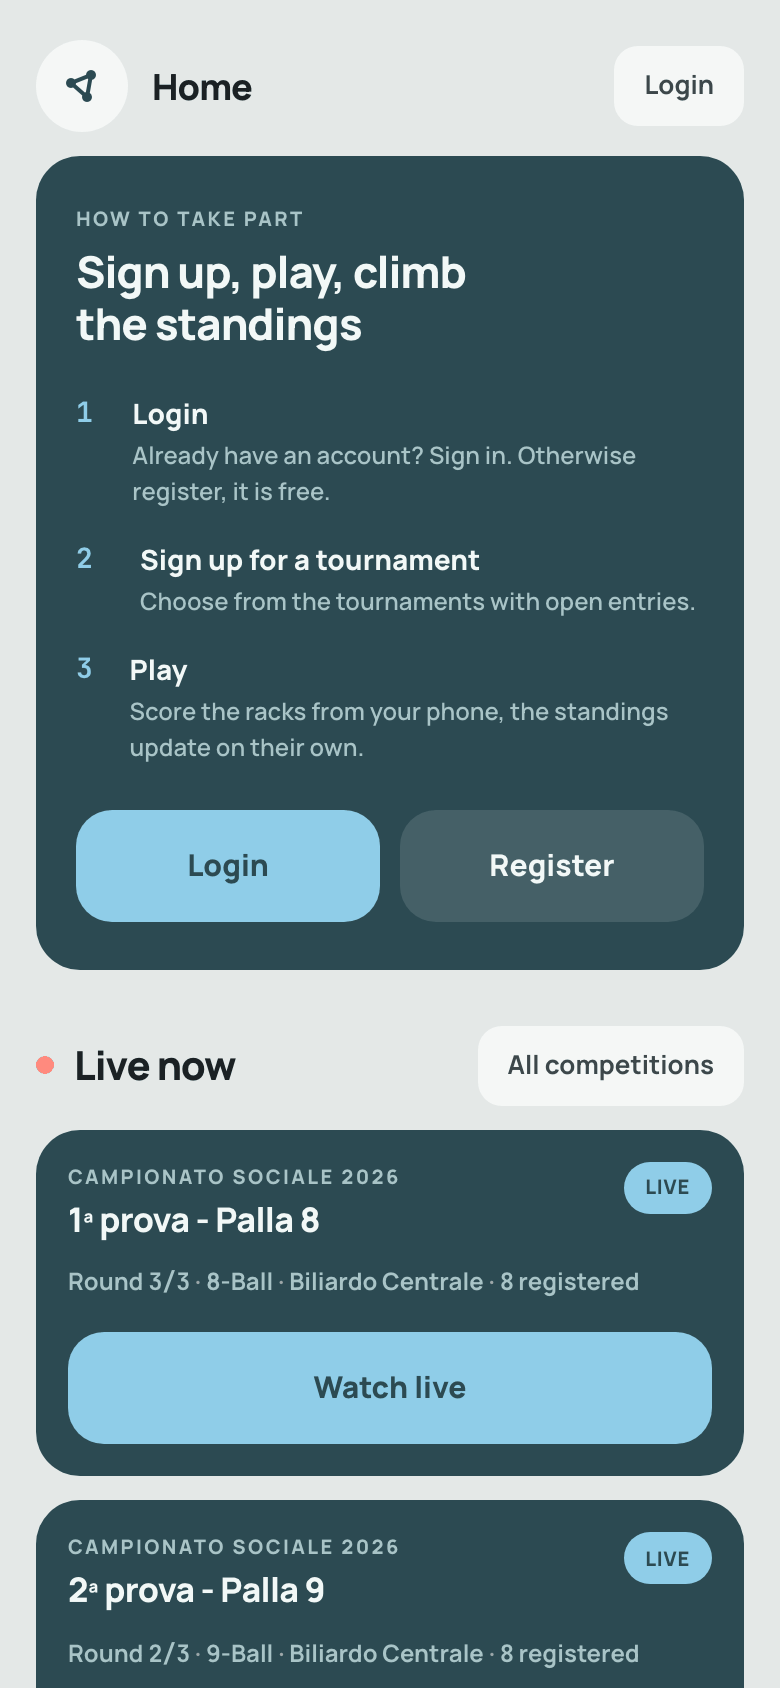
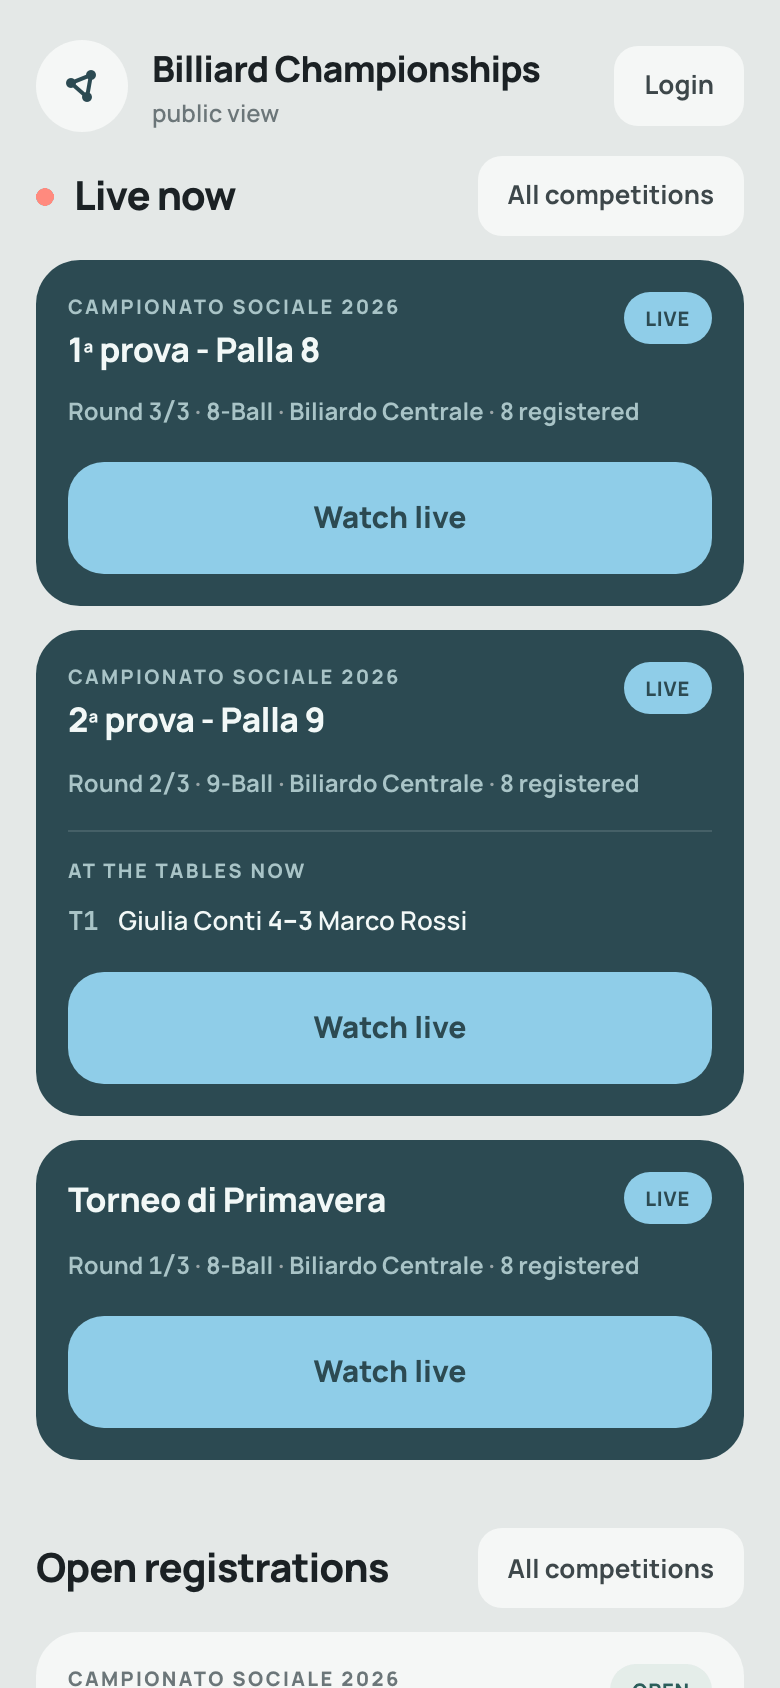
docs: le schermate della home pubblica ritraggono la home di adesso
Le quattro immagini di `home-pubblica` — italiano e inglese, telefono e
computer — mostravano ancora la pagina che apriva con «Come si partecipa». Ora
mostrano quella vera: la testata «Tornei Biliardo / vista pubblica», «In
diretta ora» in apertura, le iscrizioni aperte sotto.

Rigenerate dall'app, mai ritoccate: il dataset è quello di `seed_demo.py`, su
un database dedicato passato con `DATABASE_URL` per non azzerare quello di
sviluppo, e la cattura è girata sulla porta 5099 perché sulla 5001 c'era il
server di sviluppo. Lo script si rifiuta di procedere se la porta è occupata,
e ha ragione: fotograferebbe l'app di prima con i suoi dati.

## Una figura in più, perché il testo la chiedeva

Spostando «Come si partecipa» in fondo alla pagina, la guida ha smesso di
combaciare con la sua figura: il passo «Apri la registrazione» dice ora «scorri
fino in fondo, il pulsante **Registrati** è lì» e mostrava l'alto della pagina.
Un lettore che segue una guida e non trova quello che vede in figura non pensa
che la guida sia vecchia: pensa di aver sbagliato lui.

Aggiunta `home-come-si-partecipa`, ritagliata sul riquadro, e il passo ci punta
in entrambe le lingue. Il ritaglio ha richiesto un `id` sulla sezione:
`.c7-card--accent` da solo non basta, perché lo usa anche la scheda della
diretta — e l'`id` serve comunque, è l'unico punto della home che spiega come
si partecipa.

Il presidio dei contenuti ha fatto esattamente il suo mestiere: dichiarata la
[…]

diff --git a/templates/components/_index_registration_info.html b/templates/components/_index_registration_info.html
@@ -5,7 +5,7 @@
    pulsante «Iscriviti» della gara che gli interessa. Questo blocco è per chi
    ha scorso tutta la pagina e vuole capire come funziona. #}
 {% if not current_user.is_authenticated %}
-<section class="c7-card c7-card--accent" style="padding: 24px 20px; margin-top: 34px;">
+<section id="come-si-partecipa" class="c7-card c7-card--accent" style="padding: 24px 20px; margin-top: 34px;">
     <div class="c7-kicker">{{ _("Come si partecipa") }}</div>
     <h2 style="margin: 6px 0 0; color: inherit; font-size: 22px;">{{ _("Iscriviti, gioca, scala la classifica") }}</h2>
 
